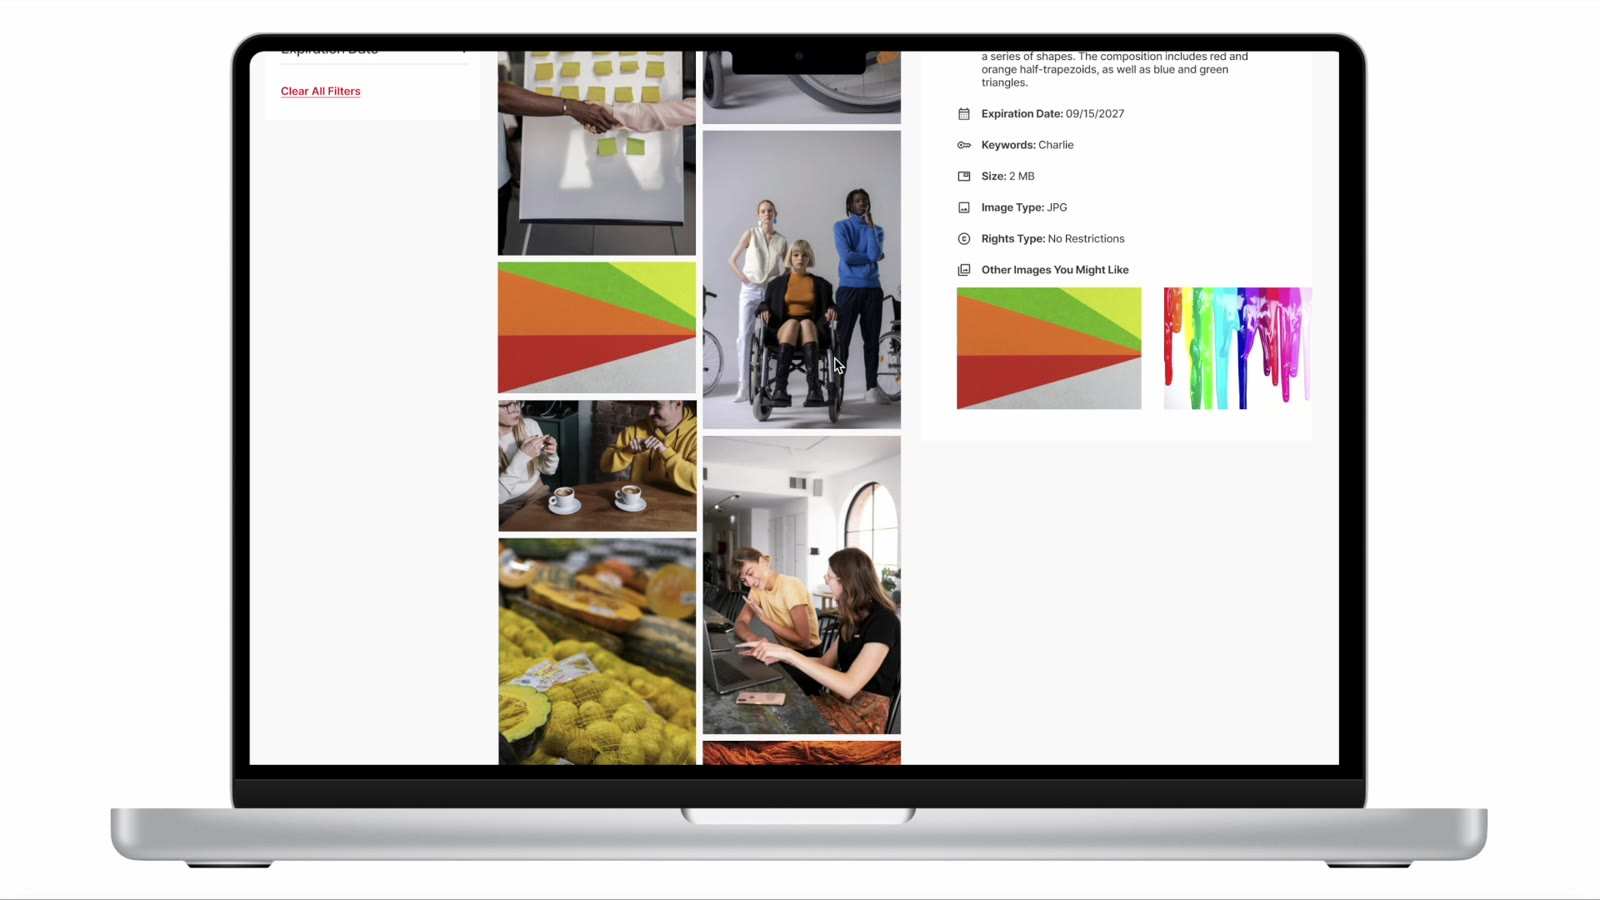
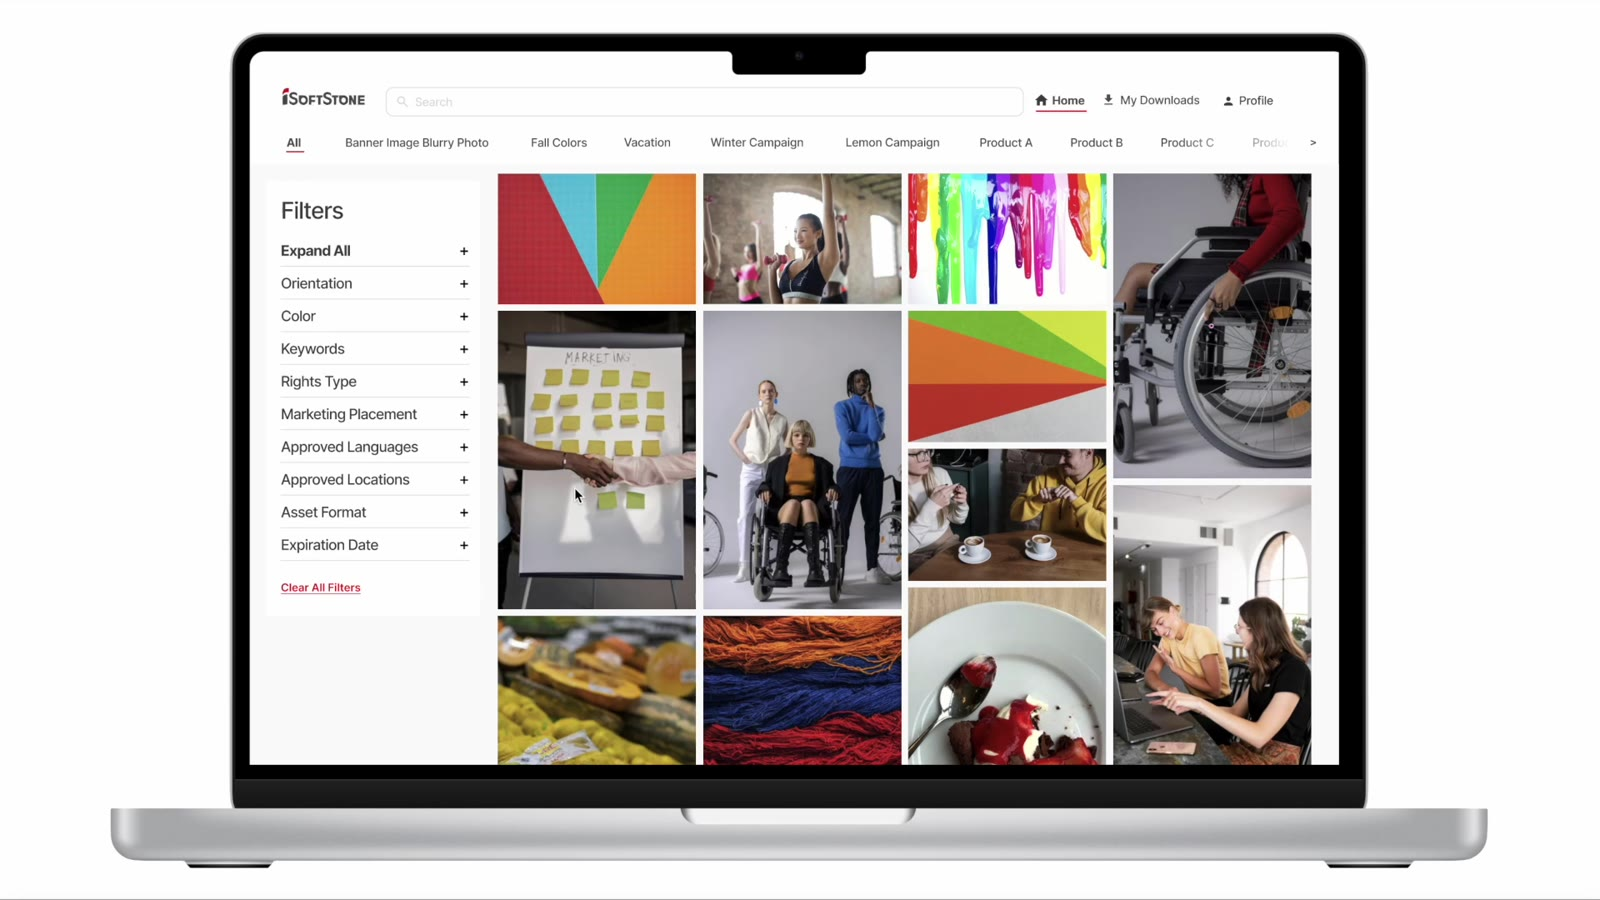
Refine iSoftStone hero and headings

diff --git a/isoftstone.html b/isoftstone.html
@@ -30,8 +30,8 @@
                 </div>
 
                 <figure class="hero-visual">
-                    <img src="images/isoftstone/hero-preview.jpg" alt="Redesigned responsive digital asset interface shown on a laptop" width="1600" height="900">
-                    <figcaption>Redesigned responsive digital asset workflow</figcaption>
+                    <img src="images/isoftstone/hero-preview.jpg?v=20260812-2" alt="Redesigned digital asset search interface with filters and an image grid shown on a laptop" width="1600" height="900">
+                    <figcaption>Redesigned digital asset interface</figcaption>
                 </figure>
 
                 <dl class="project-meta">
@@ -57,13 +57,11 @@
             <div class="case-study-body main-content">
                 <section class="overview-grid" aria-label="Project overview">
                     <div class="overview-block">
-                        <p class="section-kicker">Challenge</p>
-                        <h2>Untangling a fragmented demo</h2>
+                        <h2>The problem</h2>
                         <p>The existing demo divided closely related tasks across overlapping home, campaign, and search pages. It also depended on desktop-only hover interactions and used labels such as “Cart” for a free bulk-download workflow. Without a shared design system, new screens and concepts were harder to carry consistently across devices.</p>
                     </div>
                     <div class="overview-block">
-                        <p class="section-kicker">Approach</p>
-                        <h2>One system, three connected contributions</h2>
+                        <h2>My role</h2>
                         <p>I owned the UI/UX work from early exploration through high-fidelity prototypes, translating product needs into user flows, interaction patterns, responsive layouts, and reusable components. The work focused on making the demos more coherent and easier for prospective clients to understand.</p>
                     </div>
                 </section>
@@ -182,13 +180,11 @@
 
                 <section class="closing-grid" aria-label="Project outcomes and reflection">
                     <div class="closing-block">
-                        <p class="section-kicker">Outcomes</p>
-                        <h2>A more cohesive demo foundation</h2>
+                        <h2>Outcomes</h2>
                         <p>The work gave the team a reusable design foundation, a responsive digital asset experience with clearer navigation and terminology, and a new concept for image-led search. Together, the three deliverables created a more cohesive way to demonstrate the platform to prospective clients.</p>
                     </div>
                     <div class="closing-block">
-                        <p class="section-kicker">Reflection</p>
-                        <h2>Consistency is part of the workflow</h2>
+                        <h2>Reflection</h2>
                         <p>Some of the most consequential decisions were also the simplest: removing redundant destinations, naming actions precisely, and designing the same interaction across breakpoints. The project also gave me early experience translating an AI capability into an interface that remained understandable to users.</p>
                     </div>
                 </section>
